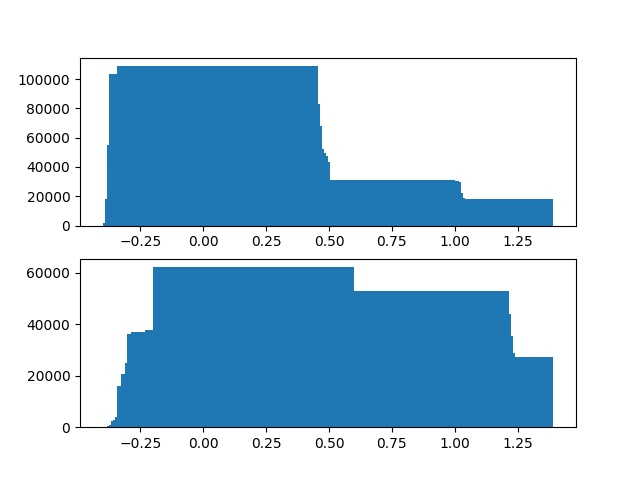
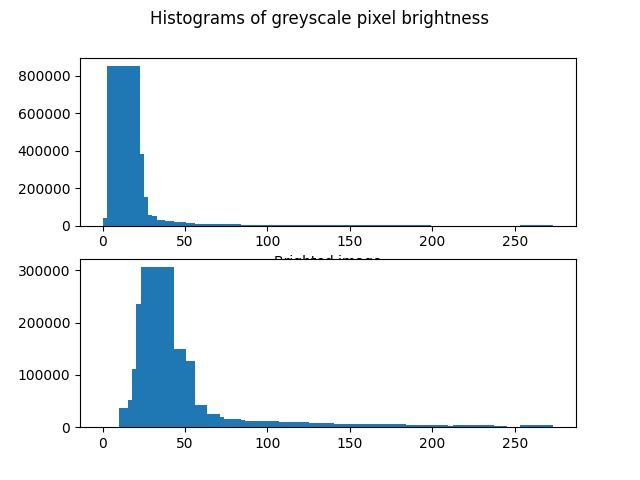
Finished Task 1.2

diff --git a/Task 1.1.py b/Task 1.1.py
@@ -1,60 +1,47 @@
 import numpy as np
 import matplotlib.pyplot as plt
+from loading_and_plotting_data import load_grey_image
 
+def plot_org_vs_grey_image(plot_histrogram, image, alpha):
 
-def load_grey_image():
-    # read the image and divude the image into rgb values
-    orginal_image = plt.imread(r'Images\Orginal image - gym.jpeg')
-    r, g, b = orginal_image[:,:,0], orginal_image[:,:,1], orginal_image[:,:,2]
-
-    # there are different ways to making the image greyscale, 
-    # the square root of the rgb values squared didn't produce images
-    # that looked correct so this method was used using 
-    # https://stackoverflow.com/questions/12201577/how-can-i-convert-an-rgb-image-into-grayscale-in-python
-    #greyscale_image = np.sqrt(r**2 + g**2 + b**2)
-
-    greyscale_image = 0.2989 * r + 0.5870 * g + 0.1140 * b
-    greyscale_image = (greyscale_image / np.amax(greyscale_image)).astype(np.float64)
-
-    return orginal_image, greyscale_image
-
-def plot_org_vs_grey_image(plot_histrogram):
-
-    orginal_image, greyscale_image = load_grey_image()
-
-    fig, ax = plt.subplots(1, 3, figsize=(10, 6))
-    alpha = 10
+    orginal_image, greyscale_image = load_grey_image(image=image)
     edit_greyscale_image = np.log(1 + alpha * greyscale_image) / np.log(1 + alpha)
 
+    N = 3 # num of subplots in figure
+    fig, ax = plt.subplots(1, N, figsize=(10, 6))
+
     ax[0].imshow(orginal_image)
-    ax[0].set_xticks([])
-    ax[0].axes.get_yaxis().set_visible(False)
     ax[0].set_xlabel('Orginal Image')
     
     ax[1].imshow(greyscale_image, cmap='gray')
-    ax[1].set_xticks([])
-    ax[1].axes.get_yaxis().set_visible(False)
     ax[1].set_xlabel('Greyscale Image')
 
     ax[2].imshow(edit_greyscale_image, cmap='gray')
-    ax[2].axes.get_yaxis().set_visible(False)
-    ax[2].set_xlabel('Brighted Greyscale Image')
+    ax[2].set_xlabel('Brighted Greyscale Image with alpha = '+ str(alpha))
+    
+    for i in range(0, N):
+        ax[i].set_xticks([])
+        ax[i].axes.get_yaxis().set_visible(False)
     
     plt.savefig('Images/greyscale_image.jpeg')
+    # add a close button to the plt figure    
 
     if plot_histrogram == True:
         fig_2, ax_2 = plt.subplots(2)
 
-        hist, bin_edges = np.histogram(greyscale_image, bins=125, range=(0, 1))
-        ax_2[0].bar(bin_edges[0:-1], hist)
+        hist, bin_edges = np.histogram(greyscale_image * 256, bins=100, range=(0, 256))
+        ax_2[0].bar(bin_edges[0:-1], hist, align='edge', width=20)
         ax_2[0].ticklabel_format(style='plain')
+        ax_2[0].set_xlabel('Orginal image')
 
-        hist, bin_edges = np.histogram(edit_greyscale_image, bins=125, range=(0, 1))
-        ax_2[1].bar(bin_edges[0:-1], hist)
+        hist, bin_edges = np.histogram(edit_greyscale_image * 256, bins=100, range=(0, 256))
+        ax_2[1].bar(bin_edges[0:-1], hist, align='edge', width=20)
         ax_2[1].ticklabel_format(style='plain')
+        ax_2[0].set_xlabel('Brighted image')
 
+        fig_2.suptitle('Histograms of greyscale pixel brightness')
         fig_2.savefig('Images/histrogram_image.jpeg')
     plt.show()
 
 
-plot_org_vs_grey_image(plot_histrogram=True)
+plot_org_vs_grey_image(plot_histrogram=True, image='ocean', alpha=20)

diff --git a/Task 1.2.py b/Task 1.2.py
@@ -1,21 +1,48 @@
 import numpy as np
 import matplotlib.pyplot as plt
+from loading_and_plotting_data import load_grey_image
 
-orginal_image = plt.imread(r'C:\Users\chamo\Documents\Physics\Projects\Imaging and Data Processing\Images\Orginal image - gym.jpeg')
-r, g, b = orginal_image[:,:,0], orginal_image[:,:,1], orginal_image[:,:,2]
+def segment_image(plot_histrogram, image, threshold):
 
-greyscale_image = np.sqrt(r**2 + g**2 + b**2)
-greyscale_image = (greyscale_image / np.amax(greyscale_image)).astype(np.float64)
+    orginal_image, greyscale_image = load_grey_image(image=image)
 
-edit_greyscale_image = np.where(greyscale_image > 0.1, greyscale_image, 0)
+    N = 3
+    fig, ax = plt.subplots(1, N, figsize=(10, 6))
+    edit_greyscale_image = np.where(greyscale_image > threshold / 256, greyscale_image, 0)
+    edit_greyscale_image = np.where(greyscale_image < threshold / 256, edit_greyscale_image, 1)
 
-fig, ax = plt.subplots(2, figsize=(10, 6))
+    ax[0].imshow(orginal_image)
+    ax[0].set_xlabel('Orginal Image')
+    
+    ax[1].imshow(greyscale_image, cmap='gray')
+    ax[1].set_xlabel('Greyscale Image')
 
-hist, bin_edges = np.histogram(edit_greyscale_image, bins=256, range=(0, 1))
-ax[0].plot(bin_edges[0:-1], hist)
+    ax[2].imshow(edit_greyscale_image, cmap='gray')
+    ax[2].set_xlabel('Binary Image')
 
-ax[1].imshow(edit_greyscale_image, cmap='gray')
-ax[1].axes.get_xaxis().set_visible(False)
-ax[1].axes.get_yaxis().set_visible(False)
-plt.savefig('Images/greyscale_image.jpeg')
-plt.show()
+    for i in range(0, N):
+        ax[i].set_xticks([])
+        ax[i].axes.get_yaxis().set_visible(False)
+    
+    plt.savefig('Images/binary_image.jpeg')
+
+    if plot_histrogram == True:
+        fig_2, ax_2 = plt.subplots(2, figsize=(8, 7))
+
+        hist, bin_edges = np.histogram(greyscale_image * 256, bins=100, range=(0, 256))
+        ax_2[0].bar(bin_edges[0:-1], hist, align='edge', width=20)
+        ax_2[0].ticklabel_format(style='plain')
+        ax_2[0].set_xlabel('Orginal image')
+
+        hist, bin_edges = np.histogram(edit_greyscale_image * 256, bins=100, range=(0, 256))
+        ax_2[1].bar(bin_edges[0:-1], hist, align='edge', width=20)
+        ax_2[1].ticklabel_format(style='plain')
+        ax_2[1].set_xlabel('Thresholded Image')
+        
+        fig_2.suptitle('Histograms of greyscale pixel brightness')
+        fig_2.savefig('Images/histrogram_binary_image.jpeg')
+    plt.show()
+
+
+# for gym image, use threshold=60
+segment_image(plot_histrogram=True, image='gym', threshold=60)

diff --git a/loading_and_plotting_data.py b/loading_and_plotting_data.py
@@ -1,0 +1,31 @@
+import numpy as np
+import matplotlib.pyplot as plt
+
+def load_grey_image(image):
+    # read the image and divude the image into rgb values
+    if image == 'gym':
+        orginal_image = plt.imread(r'Images\Orginal image - gym.jpeg')
+
+    if image == 'goosefair':
+        orginal_image = plt.imread(r'Images\Orginal image - goosefair.jpeg')
+
+    if image == 'ghost':
+        orginal_image = plt.imread(r'Images\Orginal image - ghost.jpeg')
+
+    if image == 'ocean':
+        orginal_image = plt.imread(r'Images\Orginal image - ocean.jpeg')
+
+    if image == 'orginal':
+        orginal_image = plt.imread(r'Images\Orginal image.jpeg')
+    r, g, b = orginal_image[:,:,0], orginal_image[:,:,1], orginal_image[:,:,2]
+
+    # there are different ways to making the image greyscale, 
+    # the square root of the rgb values squared didn't produce images
+    # that looked correct so this method was used using 
+    # https://stackoverflow.com/questions/12201577/how-can-i-convert-an-rgb-image-into-grayscale-in-python
+    #greyscale_image = np.sqrt(r**2 + g**2 + b**2)
+
+    greyscale_image = 0.2989 * r + 0.5870 * g + 0.1140 * b
+    greyscale_image = (greyscale_image / np.amax(greyscale_image)).astype(np.float64)
+
+    return orginal_image, greyscale_image
